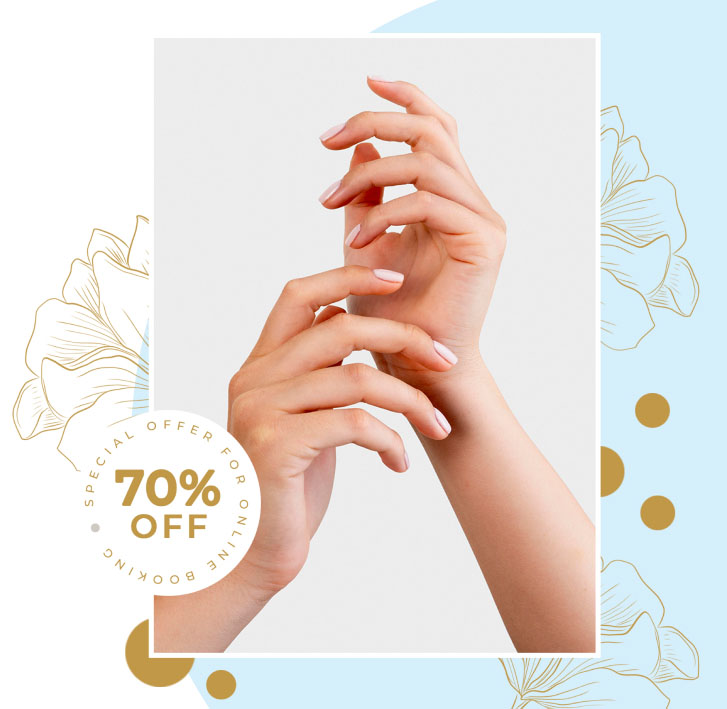
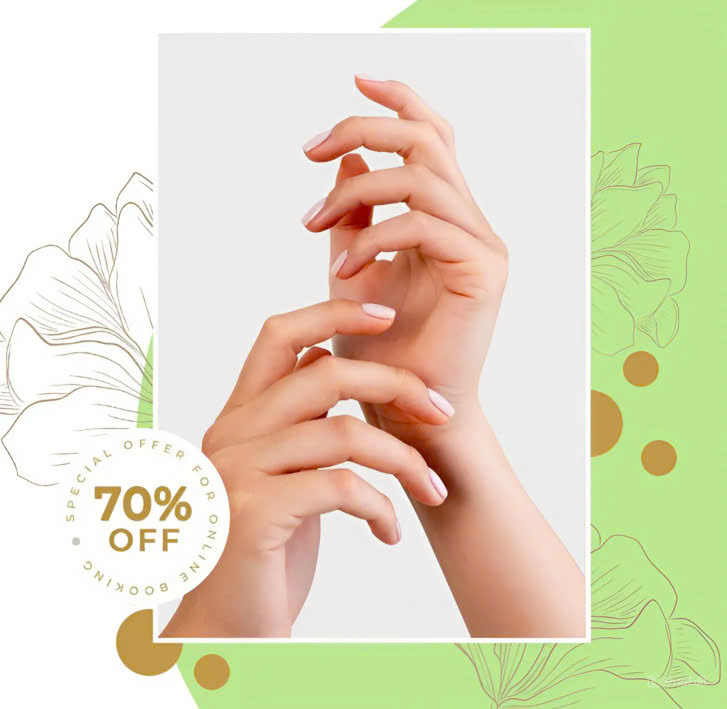
fix 2

diff --git a/src/components/Navbar.jsx b/src/components/Navbar.jsx
@@ -23,14 +23,14 @@ const Navbar = () => {
                                 Services
                             </NavLink>
                         </li>
-                        <li className="p-2 transition-all delay-75">
+                        {/* <li className="p-2 transition-all delay-75">
                             <NavLink
                                 to={`/${path.ABOUT_TEAM}`}
                                 className="w-full block hover:text-main text-base"
                             >
                                 Team
                             </NavLink>
-                        </li>
+                        </li> */}
                     </ul>
                 </li>
                 <li className="hover:text-main transition-all delay-75">

diff --git a/src/public/Home.jsx b/src/public/Home.jsx
@@ -8,7 +8,7 @@ const Home = () => {
             <Banner />
             <AboutComponent showImage={true} />
             <Service />
-            <div className='bg-main h-[600px] flex flex-col justify-center items-center py-3'>
+            <div className='bg-sub-main h-[600px] flex flex-col justify-center items-center py-3'>
                 <Feedback />
                 <Link to={`https://www.google.com/maps/place/Hollywood+nails/@55.934233,-3.470223,464m/data=!3m2!1e3!4b1!4m6!3m5!1s0x4887db4a36eafa61:0xcaff735c2ae41d80!8m2!3d55.93423!4d-3.4676481!16s%2Fg%2F11fd5738jg?entry=ttu&g_ep=EgoyMDI0MDkxNi4wIKXMDSoASAFQAw%3D%3D`} className='bg-button px-5 py-3 rounded-lg text-[#000] font-semibold uppercase'>See on Google</Link>
             </div>

diff --git a/src/App.css b/src/App.css
@@ -21,7 +21,7 @@ html {
 
 .service::before {
     content: '';
-    background: url(../src/images/before_service.png) repeat-x;
+    background: url(../src/images/before_service.jpg) repeat-x;
     height: 26px;
     display: block;
     position: absolute;
@@ -32,7 +32,7 @@ html {
 
 .service::after {
     content: '';
-    background: url(../src/images/after_service.png) repeat-x;
+    background: url(../src/images/after_service.jpg) repeat-x;
     height: 26px;
     display: block;
     position: absolute;
@@ -132,7 +132,7 @@ html {
     width: 100%;
     max-width: 1200px;
     margin: auto;
-    background-color: #C19847;
+    background-color: #BEE68D;
     /* Background color */
     padding: 20px;
 }

diff --git a/src/components/About.jsx b/src/components/About.jsx
@@ -5,7 +5,7 @@ import clsx from 'clsx'
 
 const About = ({ showImage }) => {
     return (
-        <div className='tablet:flex-col phone:flex-col flex tablet:w-[100%] phone:w-[100%] laptop:w-main    gap-20 mt-20 items-center mx-auto'>
+        <div className='tablet:flex-col phone:flex-col flex tablet:w-[100%] phone:w-[100%] laptop:w-main gap-20 mt-20 items-center mx-auto'>
             {showImage && <div className='tablet:w-[100%] px-2 phone:w-[100%] w-[50%]'>
                 <img src={about} alt='about' className='w-[100%] h-[400px] object-cover' />
             </div>}

diff --git a/tailwind.config.js b/tailwind.config.js
@@ -22,7 +22,7 @@ export default {
     },
     backgroundColor: {
       main: '#C19847',
-      'sub-main': '#d5effb'
+      'sub-main': '#BEE68D'
     },
     fontFamily: {
       banner: "'Playfair Display', serif",
